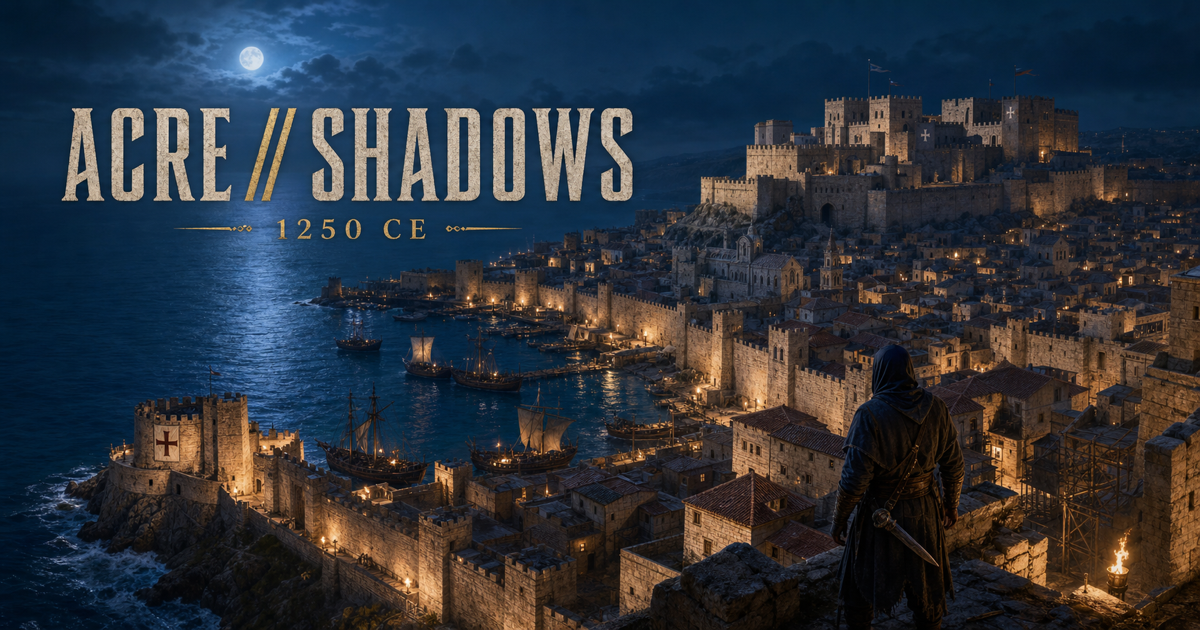
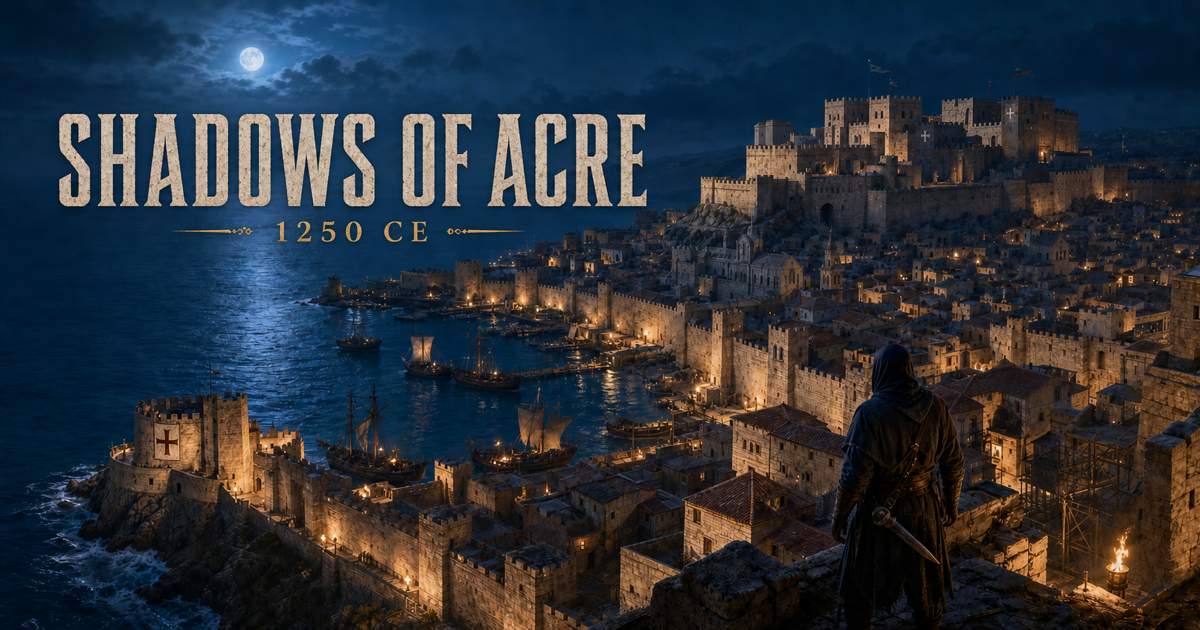
Rename the game to Shadows of Acre

diff --git a/index.html b/index.html
@@ -6,13 +6,15 @@
     <meta name="theme-color" content="#172f39" />
     <meta
       name="description"
-      content="ACRE // SHADOWS — infiltrate a historically grounded Crusader Acre in 1250 CE."
+      content="Shadows of Acre — infiltrate a historically grounded Crusader Acre in 1250 CE."
     />
-    <meta property="og:title" content="ACRE // SHADOWS" />
+    <meta property="og:title" content="Shadows of Acre" />
     <meta property="og:description" content="Cross the walls of Acre in 1250 CE, steal a sealed dispatch, and leave by sea unseen." />
-    <meta property="og:image" content="https://niryariv.github.io/blacksite-echo-fps/og.png" />
+    <meta property="og:url" content="https://niryariv.github.io/shadows-of-acre/" />
+    <meta property="og:image" content="https://niryariv.github.io/shadows-of-acre/og.png" />
     <meta name="twitter:card" content="summary_large_image" />
-    <title>ACRE // SHADOWS</title>
+    <meta name="twitter:title" content="Shadows of Acre" />
+    <title>Shadows of Acre</title>
   </head>
   <body>
     <div id="app">
@@ -26,7 +28,7 @@
       <header id="top-hud" class="hud hidden">
         <section class="mission-block">
           <span id="location" class="eyebrow">ST ANTHONY'S GATE</span>
-          <strong>ACRE // 1250 CE</strong>
+          <strong>SHADOWS OF ACRE // 1250 CE</strong>
           <span id="objective">INFILTRATE // ENTER THE HOSPITALLER COURT</span>
         </section>
         <section class="score-block">
@@ -105,7 +107,7 @@
         <div class="screen-grid"></div>
         <div class="brand">
           <span class="kicker">THE KINGDOM OF JERUSALEM // 1250 CE</span>
-          <h1>ACRE<br /><em>SHADOWS</em></h1>
+          <h1>SHADOWS<br /><em>OF ACRE</em></h1>
           <p class="tagline">THE SEA KEEPS EVERY SECRET.</p>
         </div>
         <div class="briefing-card">

diff --git a/CODEX_BRIEF.md b/CODEX_BRIEF.md
@@ -1,4 +1,4 @@
-# Codex execution brief: Acre 1250 stealth-infiltration vertical slice
+# Codex execution brief: Shadows of Acre
 
 Build and finish a self-contained first-person stealth-infiltration vertical
 slice in this workspace. The goal is to produce the highest-quality, original

diff --git a/README.md b/README.md
@@ -1,4 +1,4 @@
-# ACRE // SHADOWS
+# Shadows of Acre
 
 An original first-person stealth-infiltration game built with Three.js and set
 in a playable interpretation of Frankish Acre around 1250 CE. Enter through the
